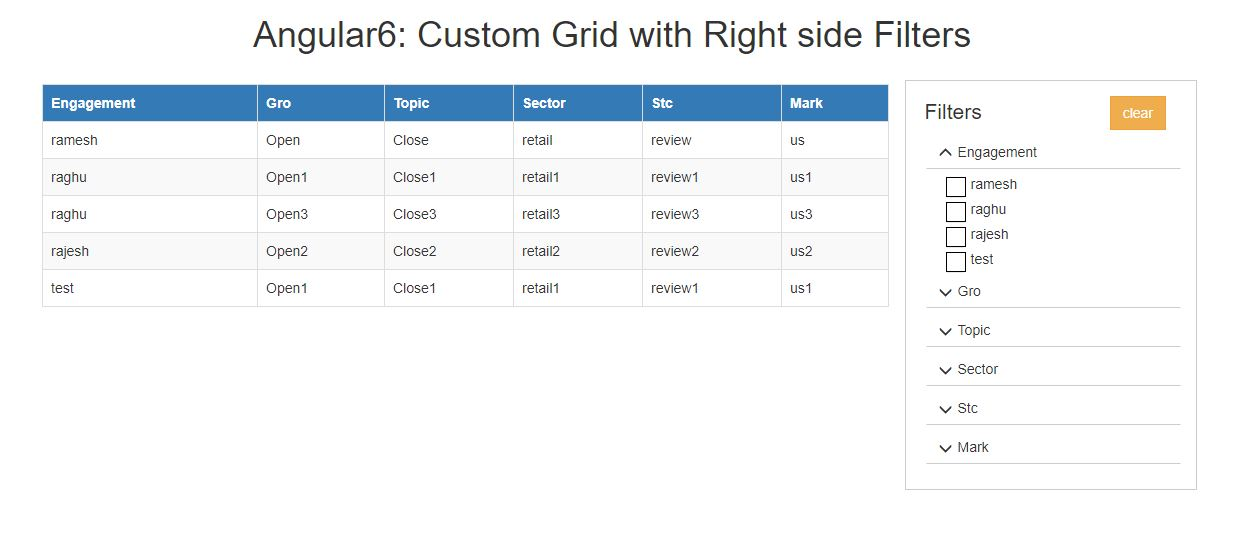
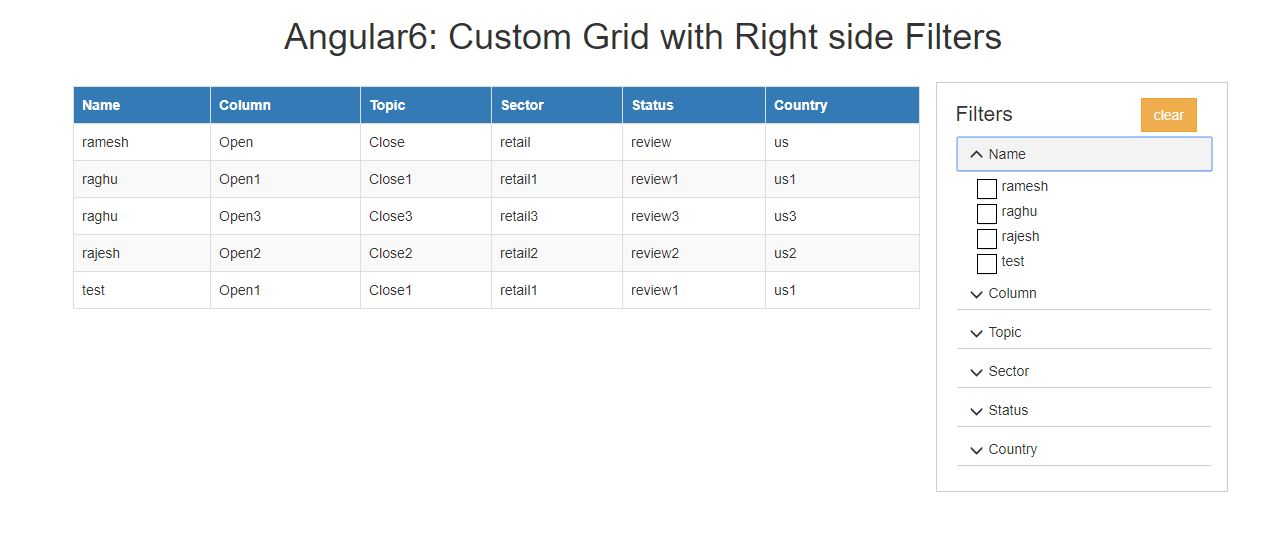
updated screenshot and filters

diff --git a/src/app/custom-grid/custom-grid.component.ts b/src/app/custom-grid/custom-grid.component.ts
@@ -22,44 +22,44 @@ export class CustomGridComponent implements OnInit {
 
     this.tableGrid = [
             {
-              'engagement': 'ramesh',
-              'gro': 'Open',
+              'name': 'ramesh',
+              'column': 'Open',
               'topic': 'Close',
               'sector':'retail',
-              'stc':'review',
-              'mark':'us'
+              'status':'review',
+              'country':'us'
             },
             {
-              'engagement': 'raghu',
-              'gro': 'Open1',
+              'name': 'raghu',
+              'column': 'Open1',
               'topic': 'Close1',
               'sector':'retail1',
-              'stc':'review1',
-              'mark':'us1'
+              'status':'review1',
+              'country':'us1'
             },
             {
-              'engagement': 'raghu',
-              'gro': 'Open3',
+              'name': 'raghu',
+              'column': 'Open3',
               'topic': 'Close3',
               'sector':'retail3',
-              'stc':'review3',
-              'mark':'us3'
+              'status':'review3',
+              'country':'us3'
             },
             {
-              'engagement': 'rajesh',
-              'gro': 'Open2',
+              'name': 'rajesh',
+              'column': 'Open2',
               'topic': 'Close2',
               'sector':'retail2',
-              'stc':'review2',
-              'mark':'us2'
+              'status':'review2',
+              'country':'us2'
             },
             {
-              'engagement': 'test',
-              'gro': 'Open1',
+              'name': 'test',
+              'column': 'Open1',
               'topic': 'Close1',
               'sector':'retail1',
-              'stc':'review1',
-              'mark':'us1'
+              'status':'review1',
+              'country':'us1'
             }
           ];
           this.copyData=this.tableGrid;
